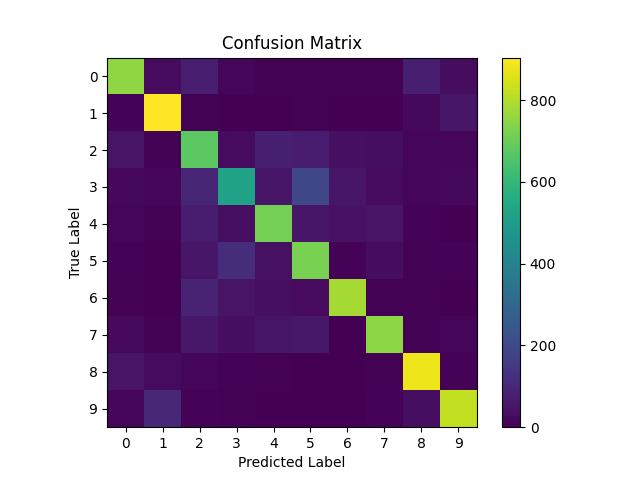
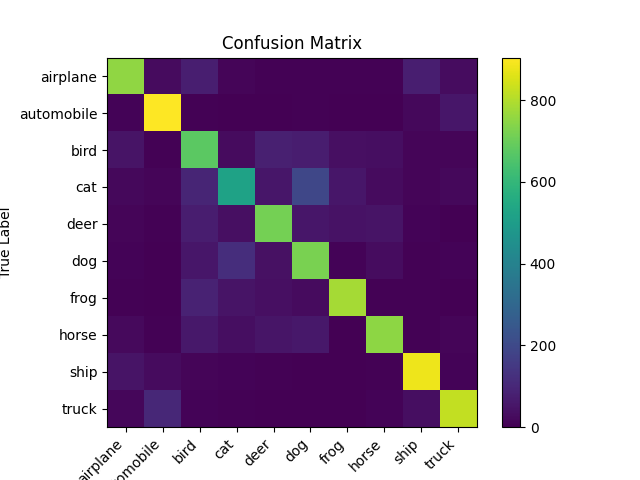
Converted labels to string for vis purposes and implemented misclassified examples plot.

diff --git a/src/viz.py b/src/viz.py
@@ -6,10 +6,11 @@ import matplotlib.pyplot as plt
 import numpy as np
 import pandas as pd
 import torch
+import random
 from sklearn.metrics import confusion_matrix
 
 from models.cnn import CNN
-from data.dataset import val_dataloader, test_dataloader
+from data.dataset import test_dataloader
 
 
 # Take device
@@ -20,6 +21,16 @@ model = CNN().to(device)
 model.load_state_dict(state_dict=torch.load('models/best_cifar10_cnn.pt'))
 with torch.no_grad():
     model.eval()
+
+# Classes of CIFAR-10
+CIFAR10_CLASSES = [
+    "airplane", "automobile", "bird", "cat", "deer",
+    "dog", "frog", "horse", "ship", "truck"
+]
+
+# Mean and std normalization values for CIFAR-10 to denormalize for visualization only
+CIFAR10_MEAN = np.array([0.4914, 0.4822, 0.4465])
+CIFAR10_STD = np.array([0.2470, 0.2435, 0.2616])
 
 # Define a function for plotting learning curves
 def plot_learning_curves(filepath):
@@ -101,6 +112,11 @@ def plot_confusion_matrix(model, dataloader):
 
     ax.set_xticks(range(10)) # 10 classes
     ax.set_yticks(range(10)) # 10 classes
+
+    # Convert integer labels to acutal class names for visualization
+    ax.set_xticklabels(CIFAR10_CLASSES, rotation=45, ha='right')
+    ax.set_yticklabels(CIFAR10_CLASSES)
+    
     ax.set_xlabel('Predicted Label')
     ax.set_ylabel('True Label')
     ax.set_title('Confusion Matrix')
@@ -123,11 +139,76 @@ def plot_misclassified_examples(model, dataloader):
     dataloader -> Dataloader to consider
     """
 
+    # Creating lists to store correct and predicted labels, also for misclassified ones
+    y_true = []
+    y_pred = []
+    misc_images = []
+    misc_labels = []
+    misc_preds  = []
+
+    with torch.no_grad():
+        # Iterate trough batches
+        for image, label in dataloader:
+            # Move image and label to device
+            image = image.to(device)
+            label = label.to(device)
+
+            # Take the predictions
+            outputs = model(image)
+            preds = torch.argmax(outputs, dim=1)
+
+            # CPU + Flatten + tolist
+            labels_cpu = label.detach().cpu()
+            preds_cpu = preds.detach().cpu()
+
+            y_true.extend(label.detach().cpu().tolist())
+            y_pred.extend(preds.detach().cpu().tolist())
+
+            # Collect the wrong examples
+            wrong = (preds_cpu != labels_cpu)
+            if wrong.any():
+                for img, t, p in zip(image.detach().cpu()[wrong], labels_cpu[wrong], preds_cpu[wrong]):
+                    misc_images.append(img)
+                    misc_labels.append(int(t.item()))
+                    misc_preds.append(int(p.item()))
     
+    # Visualize the examples randomly
+    plt.figure(figsize=(15, 10))
+    k = min(12, len(misc_images))
+    indices = random.sample(range(len(misc_images)), k)
+
+    for plot_idx, img_idx in enumerate(indices):
+        img = misc_images[img_idx]
+
+        # Plot the results
+        plt.subplot(3, 4, plot_idx + 1)
+        img = img.permute(1, 2, 0).cpu().numpy() # Changing tensor sizes
+        
+        # Denormalization for visualization
+        img = (img * CIFAR10_STD) + CIFAR10_MEAN
+        img = np.clip(img, 0, 1)
+        plt.imshow(img)
+        plt.axis('off')
+
+        # CIFAR-10 class names (True / Pred)
+        true = CIFAR10_CLASSES[misc_labels[img_idx]]
+        pred = CIFAR10_CLASSES[misc_preds[img_idx]]
+        plt.title(f"True:{true} / Predicted:{pred}", fontsize=9)
+
+    plt.suptitle('Misclassified Examples')
+    plt.tight_layout()
+    plt.savefig('outputs/plots/misclassified_examples.png')
+    
+    # INFO
+    print("Plot saved to outputs/plots as misclassified_examples.png")
+
+    return
+
 
 # Testing out the visualization functions
 if __name__ == '__main__':
     
-    # For now test out the learning curves and confusion matrix
+    # For now test out the learning curves, confusion matrix and misclassified examples
     plot_learning_curves(filepath='outputs/logs/metrics.csv')
     plot_confusion_matrix(model=model, dataloader=test_dataloader)
+    plot_misclassified_examples(model=model, dataloader=test_dataloader)
